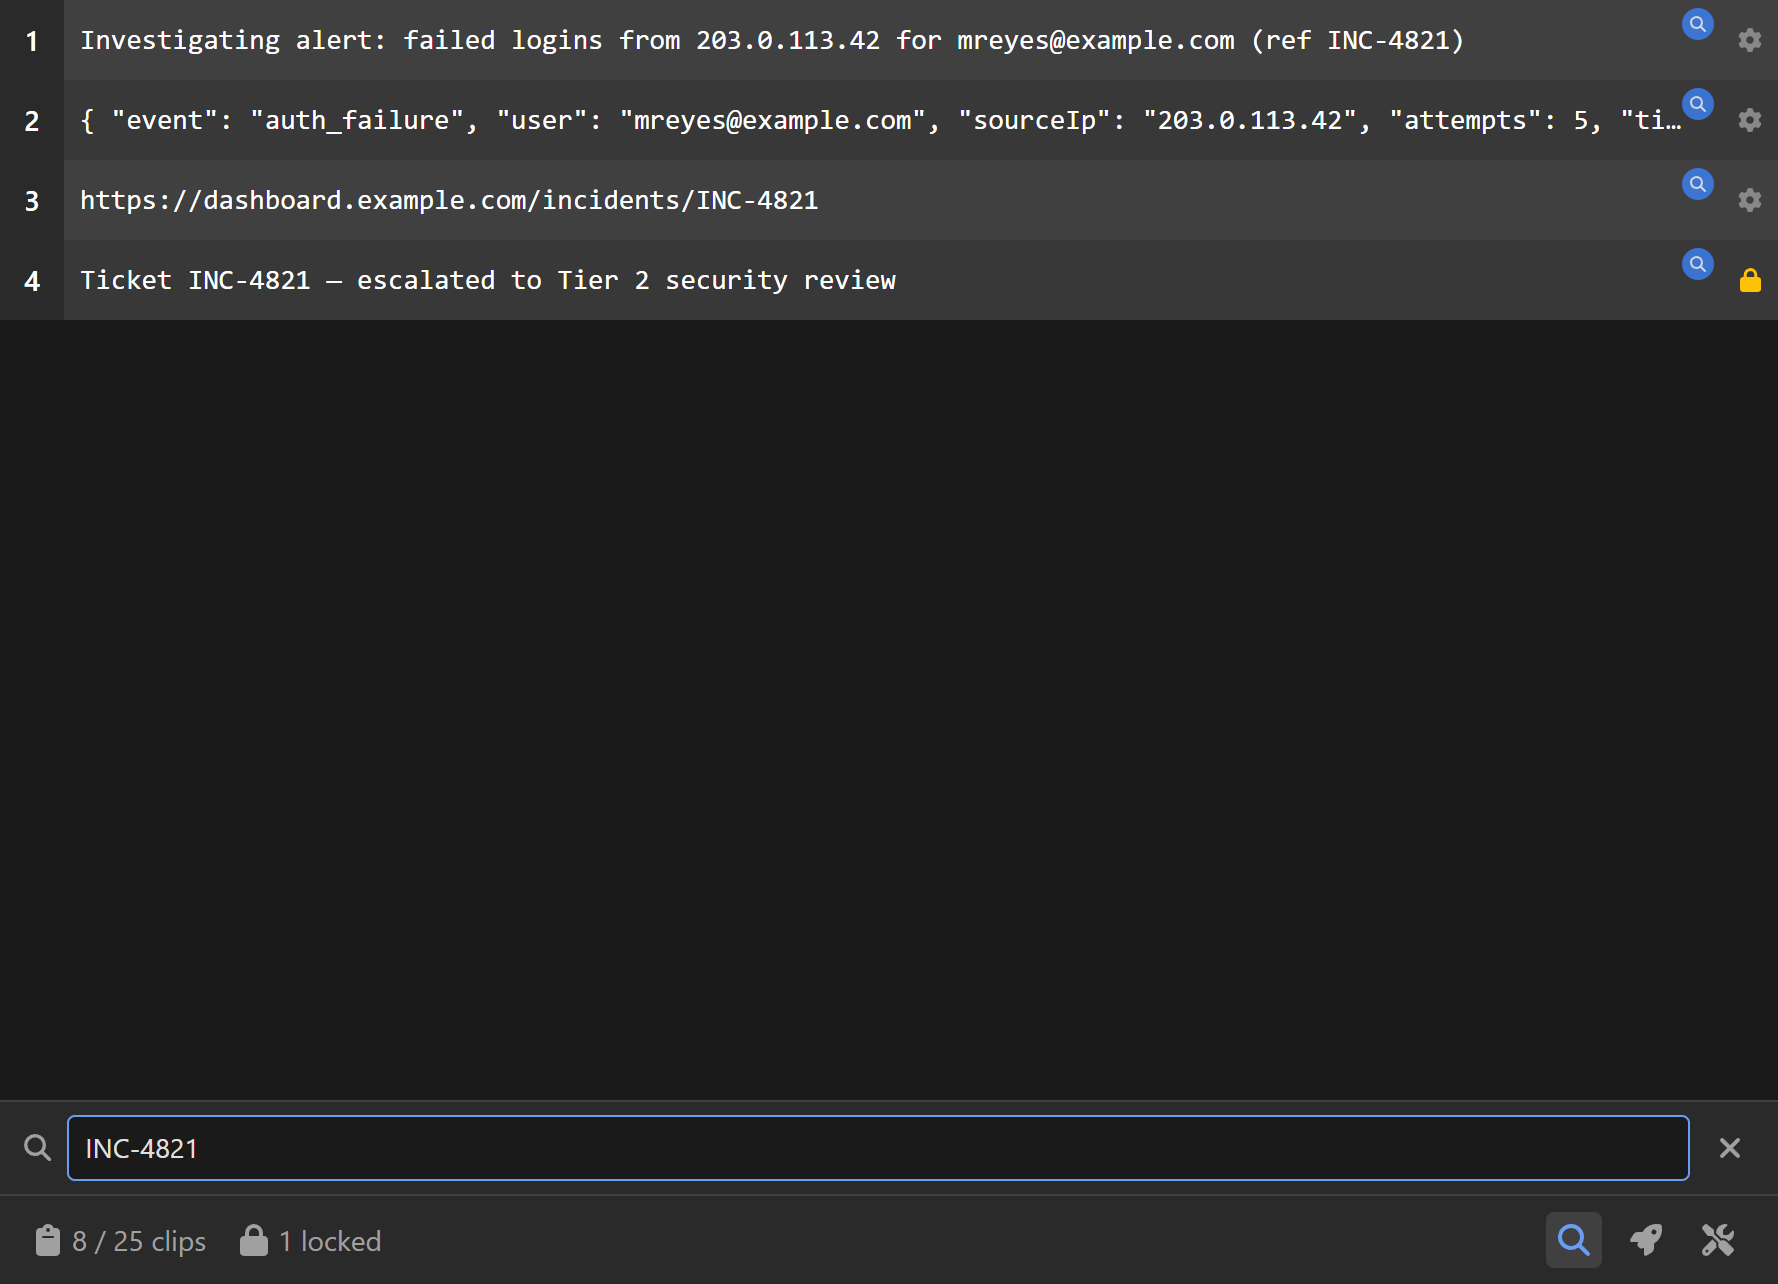
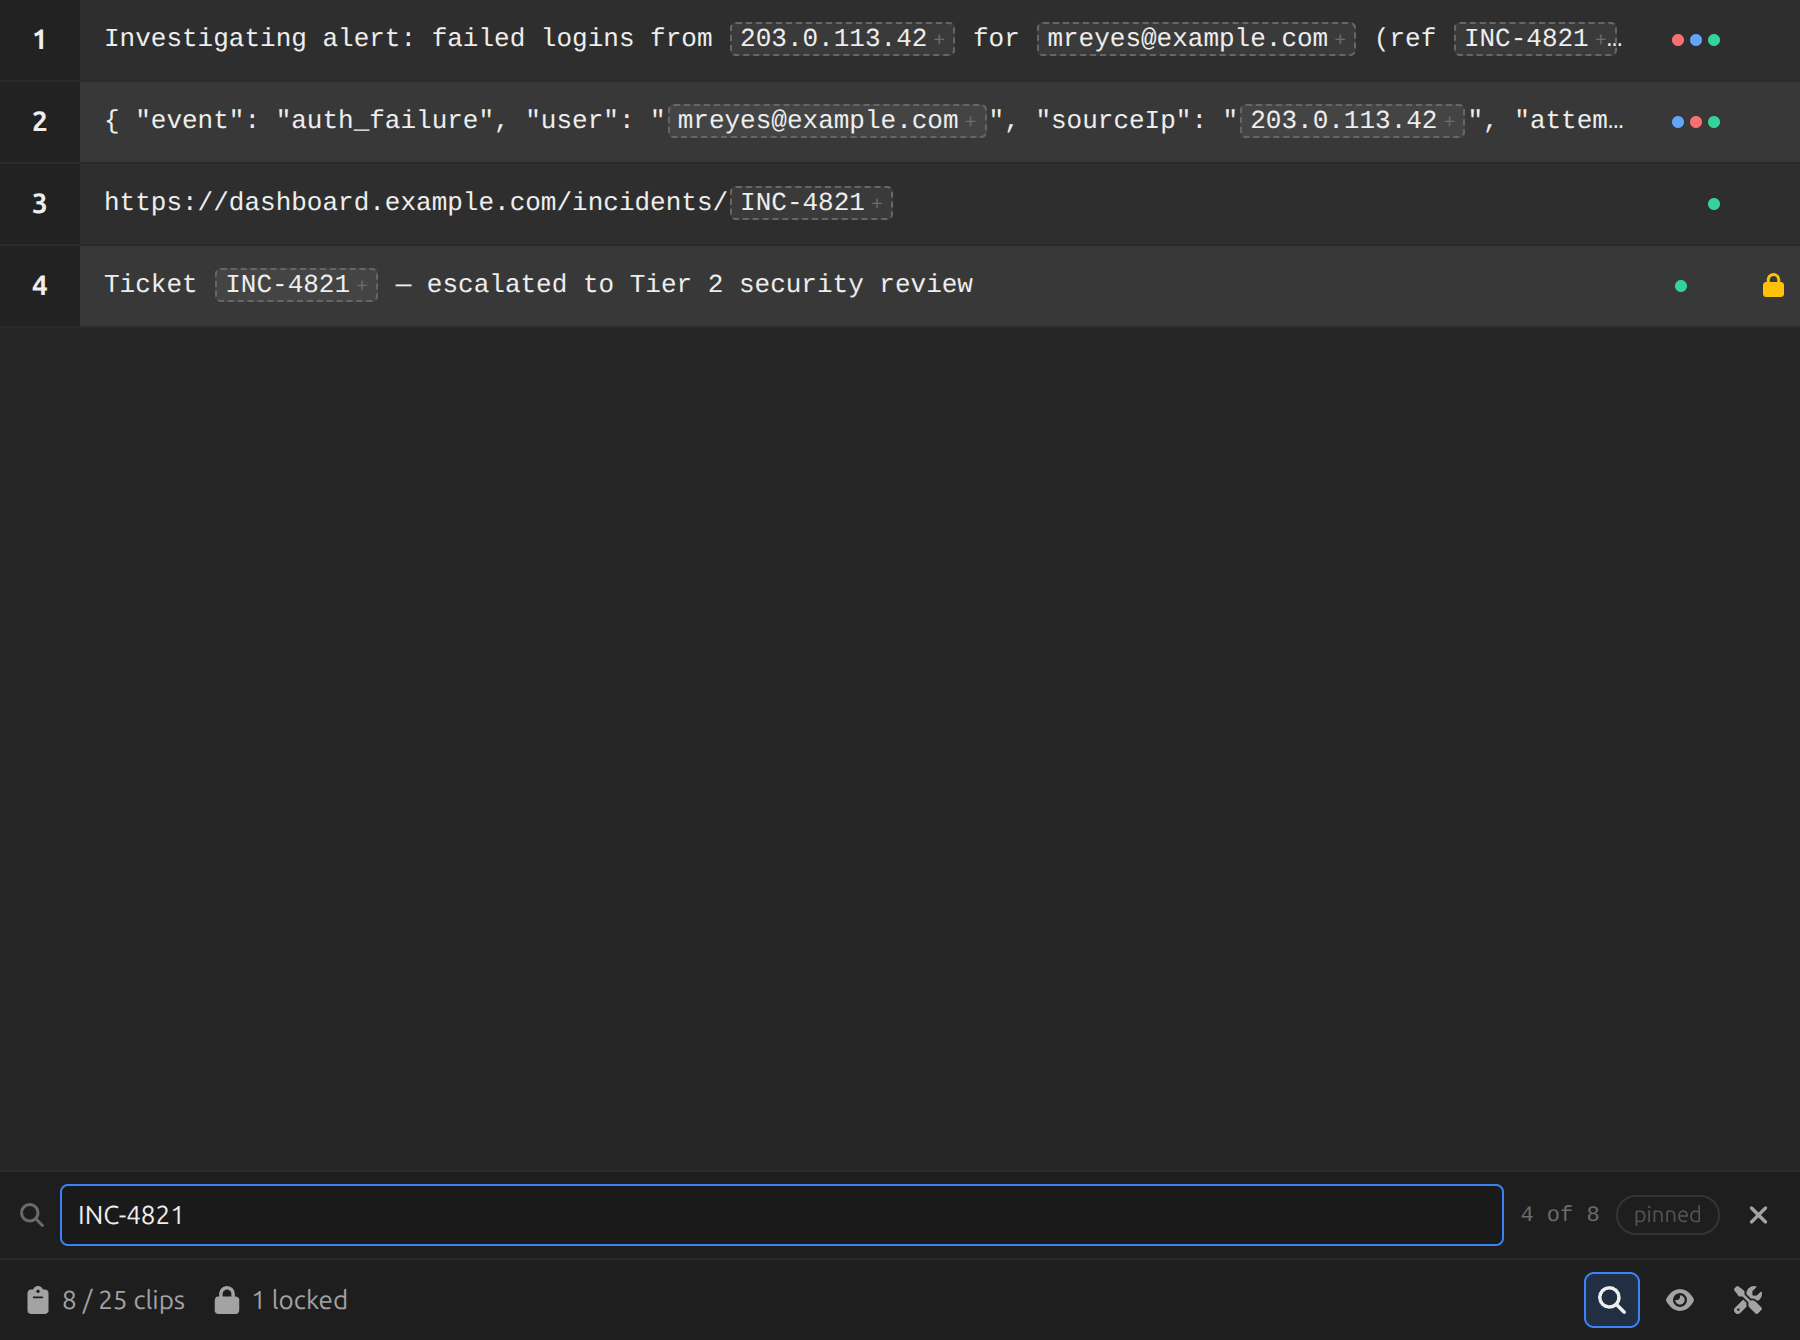
Quick look docs: the launcher window is gone in 2.0.0
index.html and docs/index.html describe chips, pins, the tray and the
in-window reader; every screenshot regenerated from the 2.0.0 app, with
the settings Tools tab pair added. Mirrors site/ on the code branch at
c52340c.

diff --git a/docs/index.html b/docs/index.html
@@ -158,8 +158,8 @@
         >
         <h1>Everything Clipless <span class="grad">can do.</span></h1>
         <p class="lead">
-          A complete reference for clipboard history, Quick Clips pattern extraction, the Tools
-          Launcher, templates, hotkeys and every setting.
+          A complete reference for clipboard history, Quick Clips pattern extraction, quick look,
+          templates, hotkeys and every setting.
         </p>
       </div>
 
@@ -174,7 +174,7 @@
             <li><a href="#quick-tools">Quick Tools</a></li>
             <li><a href="#templates">Templates</a></li>
             <li><a href="#clip-quick-search">Clip Quick Search</a></li>
-            <li><a href="#tools-launcher">Tools Launcher</a></li>
+            <li><a href="#quick-look">Quick look</a></li>
             <li><a href="#global-hotkeys">Global Hotkeys</a></li>
             <li><a href="#settings">Settings Reference</a></li>
             <li><a href="#code-detection">Code Detection</a></li>
@@ -222,9 +222,7 @@
             </p>
 
             <h3>Clip Actions</h3>
-            <p>
-              Each clip has a cog icon menu and a right-click context menu with actions including:
-            </p>
+            <p>Each clip has a right-click context menu with actions including:</p>
             <ul>
               <li>
                 <strong>Lock / Unlock</strong> — prevent a clip from being removed when the history
@@ -232,9 +230,8 @@
               </li>
               <li><strong>Delete</strong> — remove a clip from history</li>
               <li>
-                <strong>Scan for Search Terms</strong> — scan a previous clip's content against your
-                Quick Clips patterns and open the Tools Launcher with the results. This lets you use
-                Quick Tools on any clip in your history, not just the most recent one.
+                <strong>Quick look</strong> — open the clip in the reader, with every Quick Clips
+                match shown as a chip you can pin. Works on any clip in your history.
               </li>
             </ul>
 
@@ -350,11 +347,14 @@ https://tool.com/check?email={email}&amp;domain={domainName}</code></pre>
             <h3>Usage</h3>
             <p>When Quick Clips detects patterns in a clip, you can:</p>
             <ul>
-              <li>Click the scanner icon on the clip to see matches and open tools</li>
-              <li>Use the Tools Launcher window (Ctrl+Shift+T) for quick access</li>
               <li>
-                Use the cog icon or right-click menu on any clip and select "Scan for Search Terms"
-                to scan older clips and open the Tools Launcher with their extracted data
+                Click a chip on the clip row to pin that value; the tray below the list offers the
+                tools that take it
+              </li>
+              <li>Press Ctrl+Shift+T to open quick look on the newest clip</li>
+              <li>
+                Hover a row and click the eye, press Space on a focused row, or pick "Quick look"
+                from the right-click menu to read any older clip and pin from there
               </li>
             </ul>
 
@@ -415,15 +415,29 @@ Regards</code></pre>
             </p>
           </section>
 
-          <section id="tools-launcher">
-            <h2>Tools Launcher Window</h2>
-            <p>The Tools Launcher is a dedicated window for quickly acting on clipboard content.</p>
+          <section id="quick-look">
+            <h2>Quick look</h2>
+            <p>
+              Quick look is a reader that opens inside the main window and shows one clip in full.
+              Every Quick Clips match in the clip is a chip; pinned chips feed the tray.
+            </p>
             <ul>
-              <li>Open with Ctrl+Shift+T (default hotkey)</li>
-              <li>Automatically scans the most recent clip against your Quick Clips patterns</li>
-              <li>Shows matched values and available Quick Tools</li>
-              <li>If already open, sending a new clip refreshes the content</li>
+              <li>
+                Open with Ctrl+Shift+T (default hotkey) on the newest clip, or from any row via the
+                eye icon, Space, or the right-click menu
+              </li>
+              <li>Shows the clip's matches grouped by capture group, with a pin-all per group</li>
+              <li>Up and Down walk to the previous and next clip without closing the reader</li>
+              <li>Ready templates appear in the footer and copy their text to the clipboard</li>
+              <li>Esc closes the reader and returns focus to the row</li>
             </ul>
+            <h3>Tray</h3>
+            <p>
+              The tray sits under the clip list and appears on the first pin. It groups pinned
+              values by capture group and lists one button per compatible tool. A button carries
+              a multiplier when its group has several pinned values ("VirusTotal x2"), and "Open
+              all" states the exact number of tabs it will open.
+            </p>
           </section>
 
           <section id="global-hotkeys">
@@ -471,7 +485,7 @@ Regards</code></pre>
                   </tr>
                   <tr>
                     <td><code>Ctrl+Shift+T</code></td>
-                    <td>Open Tools Launcher</td>
+                    <td>Quick look on the newest clip</td>
                   </tr>
                 </tbody>
               </table>
@@ -604,7 +618,8 @@ Regards</code></pre>
               <li>Create Quick Tools pointing to your CRM, billing system, and helpdesk</li>
               <li>When a customer provides their info, copy it once</li>
               <li>
-                Open the Tools Launcher (Ctrl+Shift+T) to see extracted data and launch lookups
+                Press Ctrl+Shift+T to open quick look, pin the values, and open the lookups from
+                the tray
               </li>
             </ol>
 

diff --git a/index.html b/index.html
@@ -239,13 +239,13 @@
                 <img
                   class="shot-light"
                   src="/assets/screens/main-light.png"
-                  alt="Clipless main window listing copied clips, each flagged with a scanner icon"
+                  alt="Clipless main window listing copied clips, with matched values shown as chips"
                   loading="eager"
                 />
                 <img
                   class="shot-dark"
                   src="/assets/screens/main-dark.png"
-                  alt="Clipless main window listing copied clips, each flagged with a scanner icon"
+                  alt="Clipless main window listing copied clips, with matched values shown as chips"
                   loading="eager"
                 />
               </div>
@@ -274,8 +274,8 @@
             >
             <h2>It reads what you copy.</h2>
             <p class="lead">
-              The moment something useful lands in your clipboard, Clipless flags it. A scanner icon
-              appears on the clip — open it to see every pattern it pulled out, ready to act on.
+              The moment something useful lands in your clipboard, Clipless flags it. Every value it
+              pulls out is a chip on the clip row, ready to pin.
             </p>
             <ul class="feature-list">
               <li>
@@ -364,7 +364,7 @@
         </div>
       </section>
 
-      <!-- ===================== Tools Launcher ===================== -->
+      <!-- ===================== Quick look ===================== -->
       <section class="section-pad" id="tools">
         <div class="wrap feature">
           <div class="feature-copy reveal">
@@ -379,12 +379,13 @@
               >
                 <path d="M13 2 4 14h6l-1 8 9-12h-6l1-8Z" />
               </svg>
-              Tools Launcher</span
+              Quick look</span
             >
-            <h2>One copy. Every tool, open.</h2>
+            <h2>Pin a value. Open every tool.</h2>
             <p class="lead">
-              Send the data Clipless found straight into the web tools you already use. Select a few
-              patterns, pick your tools, and launch them all at once — no retyping, no tab juggling.
+              Every match is a chip on the clip row. Click one to pin it, and the tray offers the
+              tools that take it. Quick look reads any clip in full inside the main window, with
+              the same chips and pins. No retyping, no second window.
             </p>
             <ul class="feature-list">
               <li>
@@ -420,7 +421,7 @@
                 ><span
                   ><b>Open in bulk</b>
                   <span class="dim"
-                    >— fire off several lookups simultaneously with one click</span
+                    >— pin several values; the tray states the tab count before you click</span
                   ></span
                 >
               </li>
@@ -441,7 +442,7 @@
                 ><span
                   ><b>Templates &amp; sharing</b>
                   <span class="dim"
-                    >— match templates automatically and export configs for your team</span
+                    >— ready templates copy filled-in text; export configs for your team</span
                   ></span
                 >
               </li>
@@ -451,19 +452,19 @@
             <div class="appwin">
               <div class="appwin-bar">
                 <div class="dots"><i></i><i></i><i></i></div>
-                <div class="appwin-title">Clipless — Tools Launcher</div>
+                <div class="appwin-title">Clipless — quick look</div>
               </div>
               <div class="shot">
                 <img
                   class="shot-light"
                   src="/assets/screens/patterns-light.png"
-                  alt="Clipless Tools Launcher with found patterns on the left and matching web tools on the right"
+                  alt="Clipless quick look reading a clip inside the main window, with matched values as chips and the tools that take them"
                   loading="lazy"
                 />
                 <img
                   class="shot-dark"
                   src="/assets/screens/patterns-dark.png"
-                  alt="Clipless Tools Launcher with found patterns on the left and matching web tools on the right"
+                  alt="Clipless quick look reading a clip inside the main window, with matched values as chips and the tools that take them"
                   loading="lazy"
                 />
               </div>
@@ -743,7 +744,7 @@
               ></span>
               <h3>Global hotkeys</h3>
               <p>
-                Reach recent clips and the launcher from anywhere — even when Clipless is minimised.
+                Reach recent clips and quick look from anywhere — even when Clipless is minimised.
               </p>
             </div>
             <div class="more-card reveal d2">
